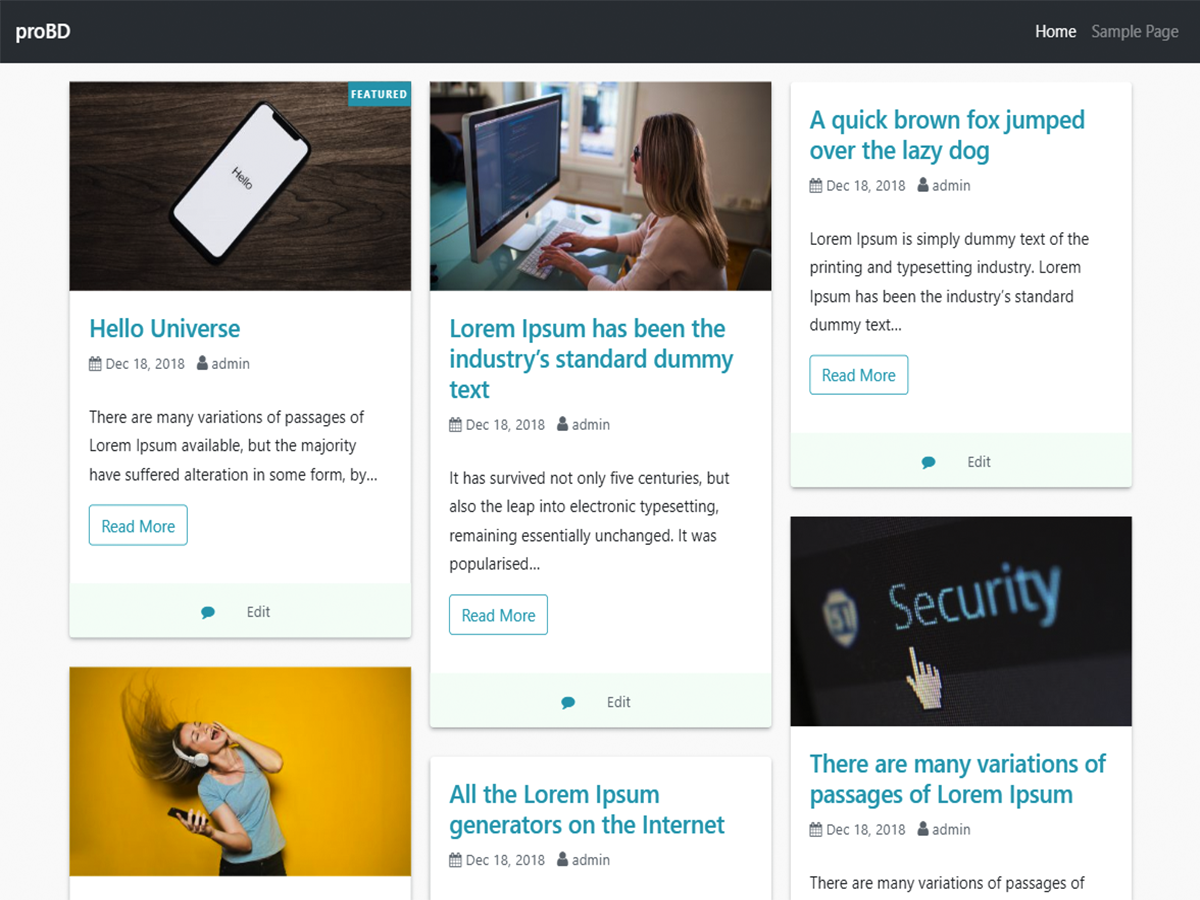
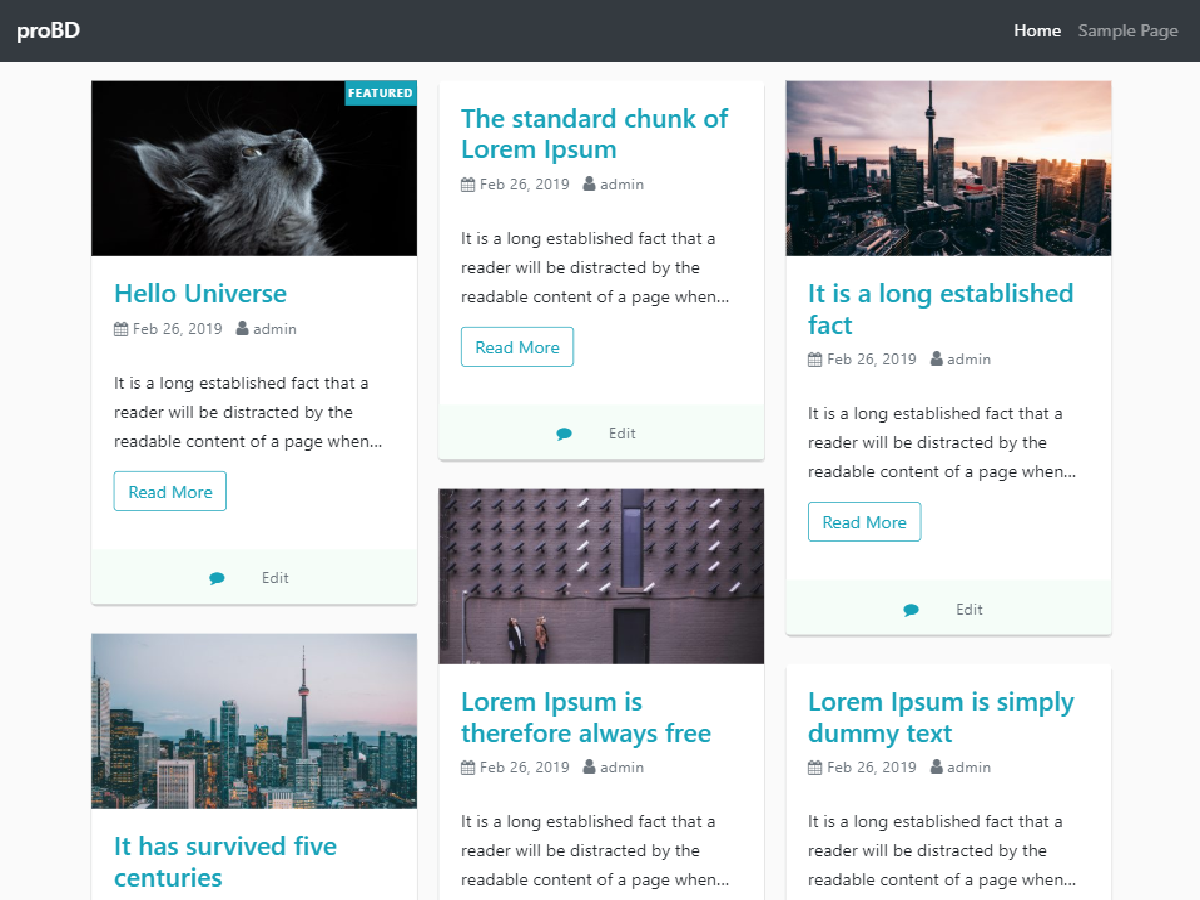
probd version update 1.0.2

diff --git a/style.css b/style.css
@@ -5,7 +5,7 @@ Author: Keramot UL Islam
 Author URI: https://abmsourav.com
 GitHub Theme URI: https://github.com/AbmSourav/probd
 Description: 'proBD' is a simple, allegiant & easy to use WordPress theme. It features custom styles for all the default blocks of new block editor. It is based on 'UnderStrap' starter theme. It's also based on 'Bootstrap 4' front-end framework. It is a light-weight theme.
-Version: 1.0.1
+Version: 1.0.2
 License: GNU General Public License v2 or later
 License URI: http://www.gnu.org/licenses/gpl-2.0.html
 Text Domain: probd

diff --git a/CHANGELOG.md b/CHANGELOG.md
@@ -1,5 +1,10 @@
 # Changelog
 
+	## 1.0.2 2019 Feb. 26th
+	- readme.txt validation.
+	- images on screenshot are changed.
+	- screenshot license issues solved.
+
     ## 1.0.1 Feb. 19th 2019
     - theme uri has changed.
     - Unnecessary fontawesome-all.min.css file has been removed.
